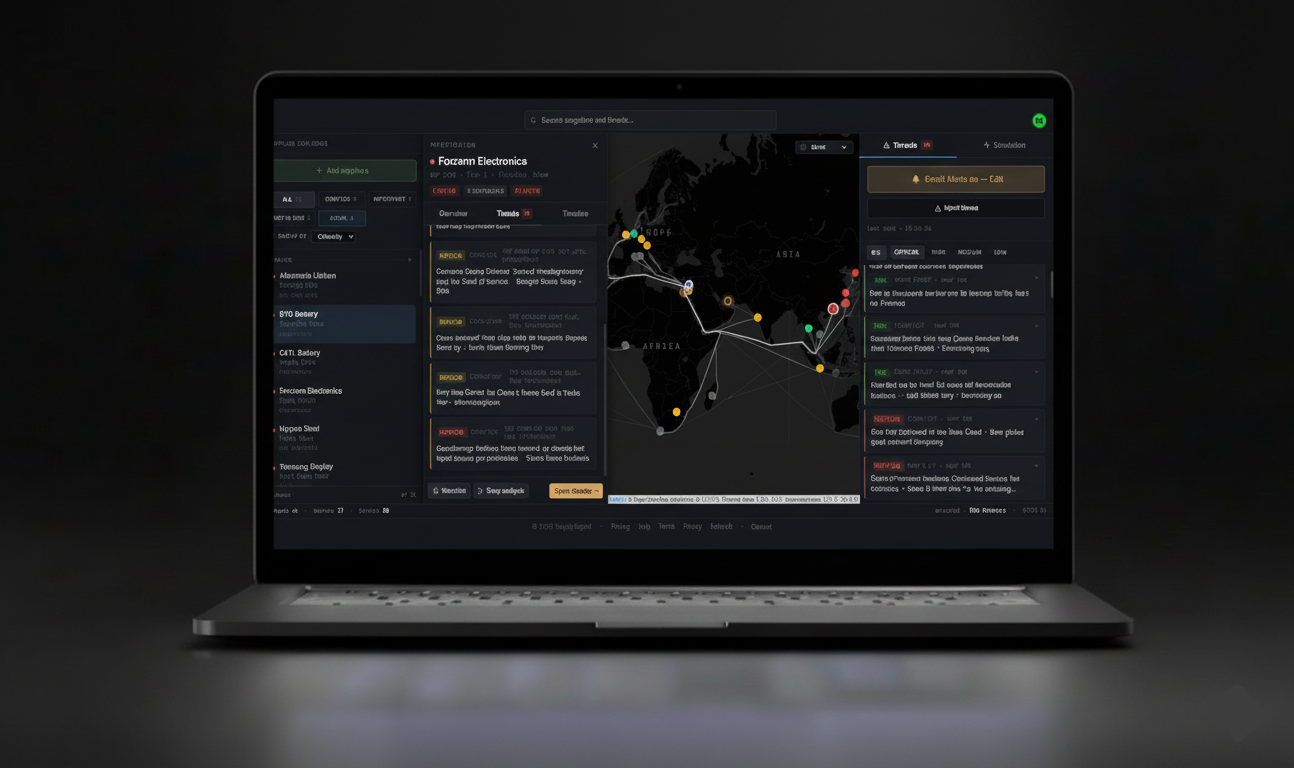
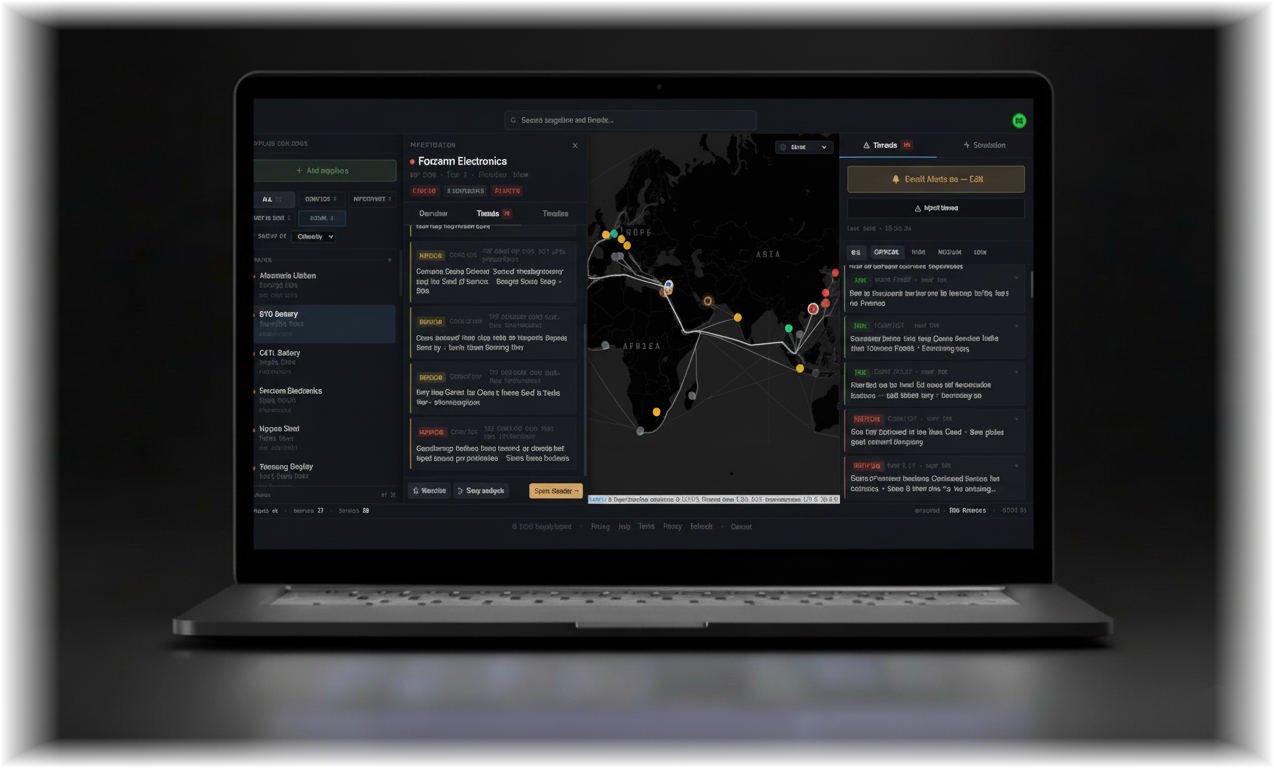
Feather hero image edges, lighten desktop overlay
Crop another 20px from left of hero (1294→1274 wide). Apply a 60px
alpha fade on all four edges so the image blends into the page
background instead of showing a hard rectangular border. Replace
the heavy radial dimming overlay with a small tight gradient that
darkens only the center (where the headline sits) without dimming
the rest of the laptop. pointer-events: none so the overlay can't
intercept clicks on the image.

diff --git a/assets/css/site.css b/assets/css/site.css
@@ -130,8 +130,9 @@ h3 {
 .hero-overlay {
   position: absolute; inset: 0;
   background:
-    radial-gradient(ellipse 70% 50% at 50% 50%, rgba(10,10,11,0.35) 0%, rgba(10,10,11,0.78) 70%, rgba(10,10,11,0.92) 100%);
+    radial-gradient(ellipse 50% 30% at 50% 50%, rgba(10,10,11,0.40) 0%, rgba(10,10,11,0) 70%);
   z-index: 2;
+  pointer-events: none;
 }
 .hero-content {
   position: relative;